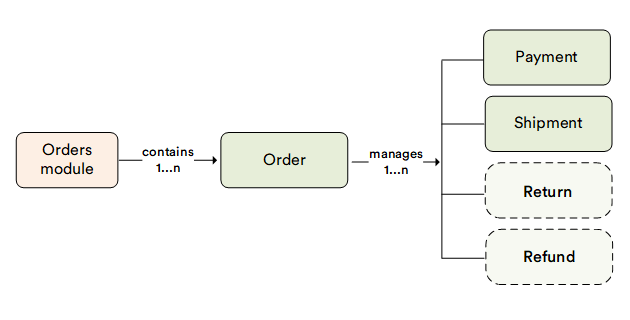
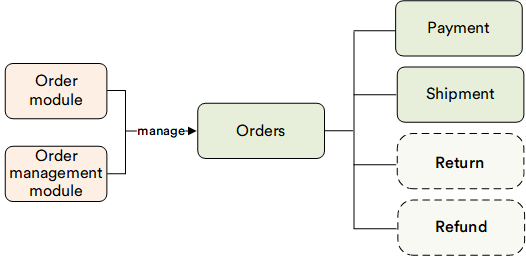
Minor corrections

diff --git a/platform/user-guide/docs/order-management/overview.md b/platform/user-guide/docs/order-management/overview.md
@@ -1,8 +1,8 @@
 # Overview
 
-The Order (Orders) module in Virto Commerce is a document based flexible orders management system with possibility to add unlimited number of documents related to customer order.
+In Virto Commerce Platform, Orders are managed via the **Orders** module and the **Order management** module representing a document-based flexible orders management system with possibility to add unlimited number of documents related to customer order. Install both modules to ensure full functionality and optimal performance in order management.
 
-The Orders module is designed to:
+The **Order** module is designed to:
 
 * Store order details.
 * Manage orders created by users on client side. 
@@ -13,12 +13,26 @@ The Orders module is designed to:
 
 The order itself contains minimum details.  You will find payment, shipment, and other order details on the documents.
 
-!!! note
-    The order management process in Virto Commerce OMS is not coded and not pre-determined. This system is designed as an Order Details Editor with no validation logics available. The system is implied to be an additional storage for customer orders details.
-
 [![Source code](media/source_code.png)](https://github.com/VirtoCommerce/vc-module-x-order)
 
 [![Download](media/latest_release.png)](https://github.com/VirtoCommerce/vc-module-x-order/releases)
+
+
+The **Order management** modules is designed to:
+
+* Add or remove line items from the order.
+* Ensure accurate price calculations based on the Frontend Application logic, applying relevant discounts, store settings, and customer-specific pricing. 
+
+
+[![Source code](media/source_code.png)](https://github.com/VirtoCommerce/vc-module-order-management)
+
+[![Download](media/latest_release.png)](https://github.com/VirtoCommerce/vc-module-order-management/releases)
+
+
+
+!!! note
+    The order management process in Virto Commerce OMS is not coded and not pre-determined. This system is designed as an Order Details Editor with no validation logics available. The system is implied to be an additional storage for customer orders details.
+
 
 [![video tutorial](media/video-tutorial-button.png)](https://youtu.be/qENWENyS0H0?si=jFpI5N7uNIn2U0LQ)
 
@@ -36,3 +50,12 @@ With the Orders module, you can:
 * [Send order information to Avalara](sending-order-information-to-avatax.md)
 * [Track order changes](tracking-order-changes.md)
 
+
+<br>
+<br>
+********
+
+<div style="display: flex; justify-content: space-between;">
+    <a href="../../inventory/settings">← Inventory module settings</a>
+    <a href="../main-objects">Order information →</a>
+</div>

diff --git a/marketplace/user-guide/docs/Vendor-portal/products-management.md b/marketplace/user-guide/docs/Vendor-portal/products-management.md
@@ -2,13 +2,13 @@
 
 The **Products** menu item includes:
 
-- **Marketplace Products**: Products uploaded by all vendors in the marketplace. Use this section to [add your own offer to another vendor's products](products-management.md#add-offer-to-another-vendors-product). 
-- **My Products**: Products uploaded by the current vendor in their marketplace. Use this section to [add your own products](products-management.md#add-own-product) and [offers](products-management.md#add-offer-to-own-product) or [manage product associations](products-management.md#manage-product-associations). 
+- **Marketplace Products**: Products uploaded by all vendors in the marketplace. Use this section to [add your own offer to another vendor's products](#add-offer-to-another-vendors-product). 
+- **My Products**: Products uploaded by the current vendor in their marketplace. Use this section to [add your own products](#add-own-product) and [offers](#add-offer-to-own-product) or [manage product associations](#manage-product-associations). 
 
 A product can be associated with multiple offers, each of which provides a specific product variation, its price, and its inventory. Each offer can contain multiple price tags, reflecting various pricing strategies or conditions. In the example below,  the product ("Laptop Model A") is associated with different offers, each offer has multiple price tags:
 
 
-| **Product**         | **Offer**                             | **Price Tag**            | **Price**       | **Condition/Note**                |
+| **Product**         | **Offer**                             | **Price tag**            | **Price**       | **Condition/Note**                |
 |---------------------|---------------------------------------|--------------------------|-----------------|-----------------------------------|
 |   Laptop Model A    |   8GB RAM, 256GB SSD                  | Standard Price           | $799.99         | Regular price                     |
 |                     |                                       | Bulk Purchase Price      | $749.99         | When buying 5 or more             |

diff --git a/platform/user-guide/docs/catalog/managing-product-configurations.md b/platform/user-guide/docs/catalog/managing-product-configurations.md
@@ -129,3 +129,12 @@ The added sections appear under the product description:
 
 ![Sections on frontend](media/configurable-products-on-frontend.png){: style="display: block; margin: 0 auto;" }
 
+
+<br>
+<br>
+********
+
+<div style="display: flex; justify-content: space-between;">
+    <a href="../managing-product-variations">← Managing product variations</a>
+    <a href="../setting-product-availability">Managing product availability →</a>
+</div>

diff --git a/storefront/user-guide/docs/account/quote-requests.md b/storefront/user-guide/docs/account/quote-requests.md
@@ -42,7 +42,7 @@ Other statuses are:
 
 ## Approve or decline quote request
 
-Once the status of the quote request changes into **Proposal sent**, you can approve or decline it.
+For corporate accounts, you can approve or decline a quote request once its status changes to **Proposal sent**:
 
 ![Quote details](../media/approve-decline.gif)
 
